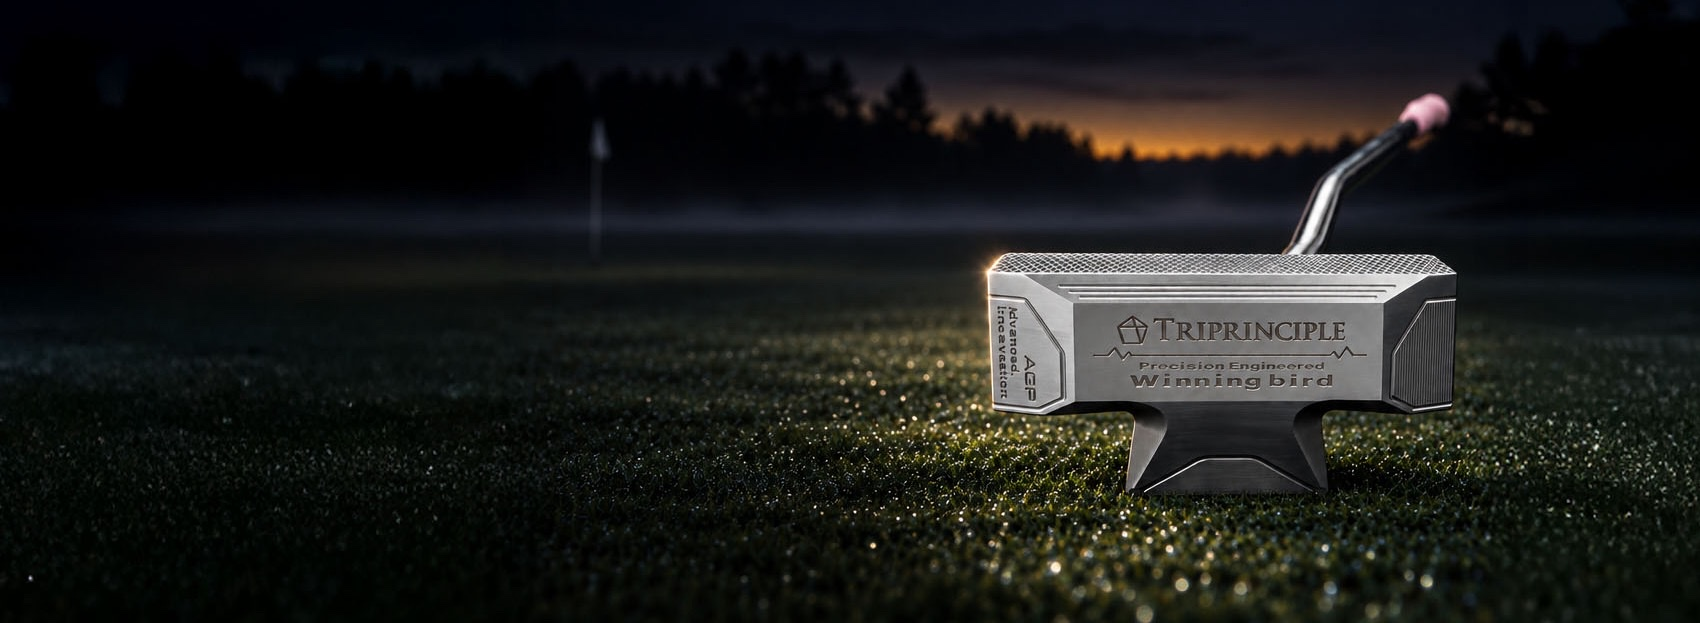
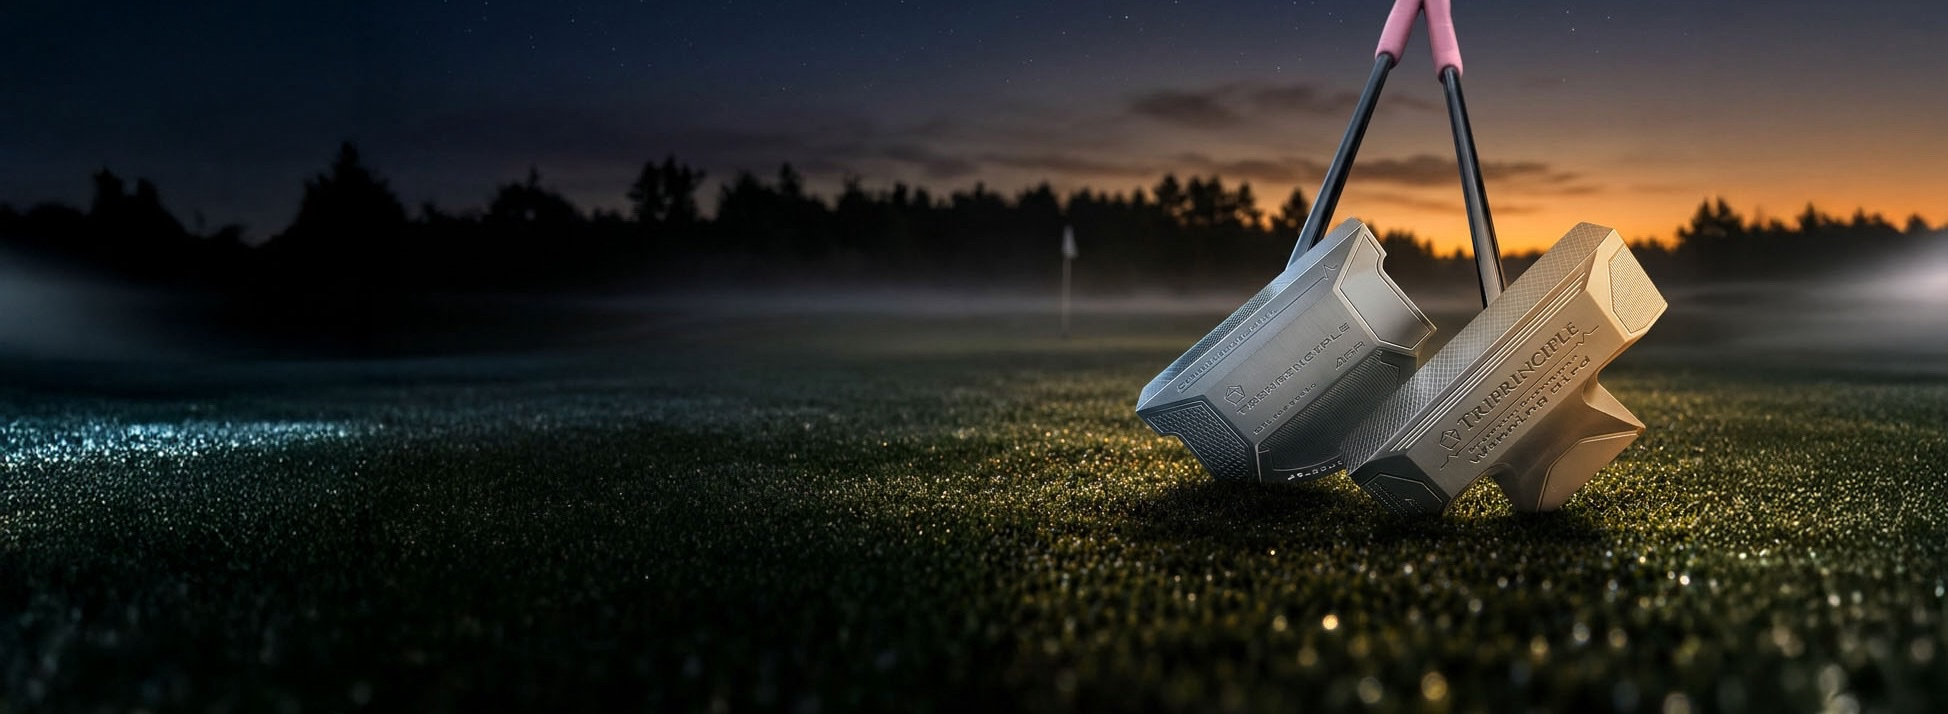
ファーストビューを2本並んだパターの写真に差し替え

diff --git a/index.html b/index.html
@@ -63,7 +63,7 @@
           <div class="ph slide__img" data-size="1500×550">
             <picture>
               <source media="(max-width: 768px)" srcset="image/photo/fv-1-sp.jpg">
-              <img src="image/photo/fv-1.jpg" alt="夜明け前のグリーンに置かれたTRIPRINCIPLE パター Winning bird">
+              <img src="image/photo/fv-1.jpg" alt="夜明け前のグリーンに並んだTRIPRINCIPLE パター Winning birdとSilver ratio">
             </picture>
           </div>
           <div class="slide__body">
